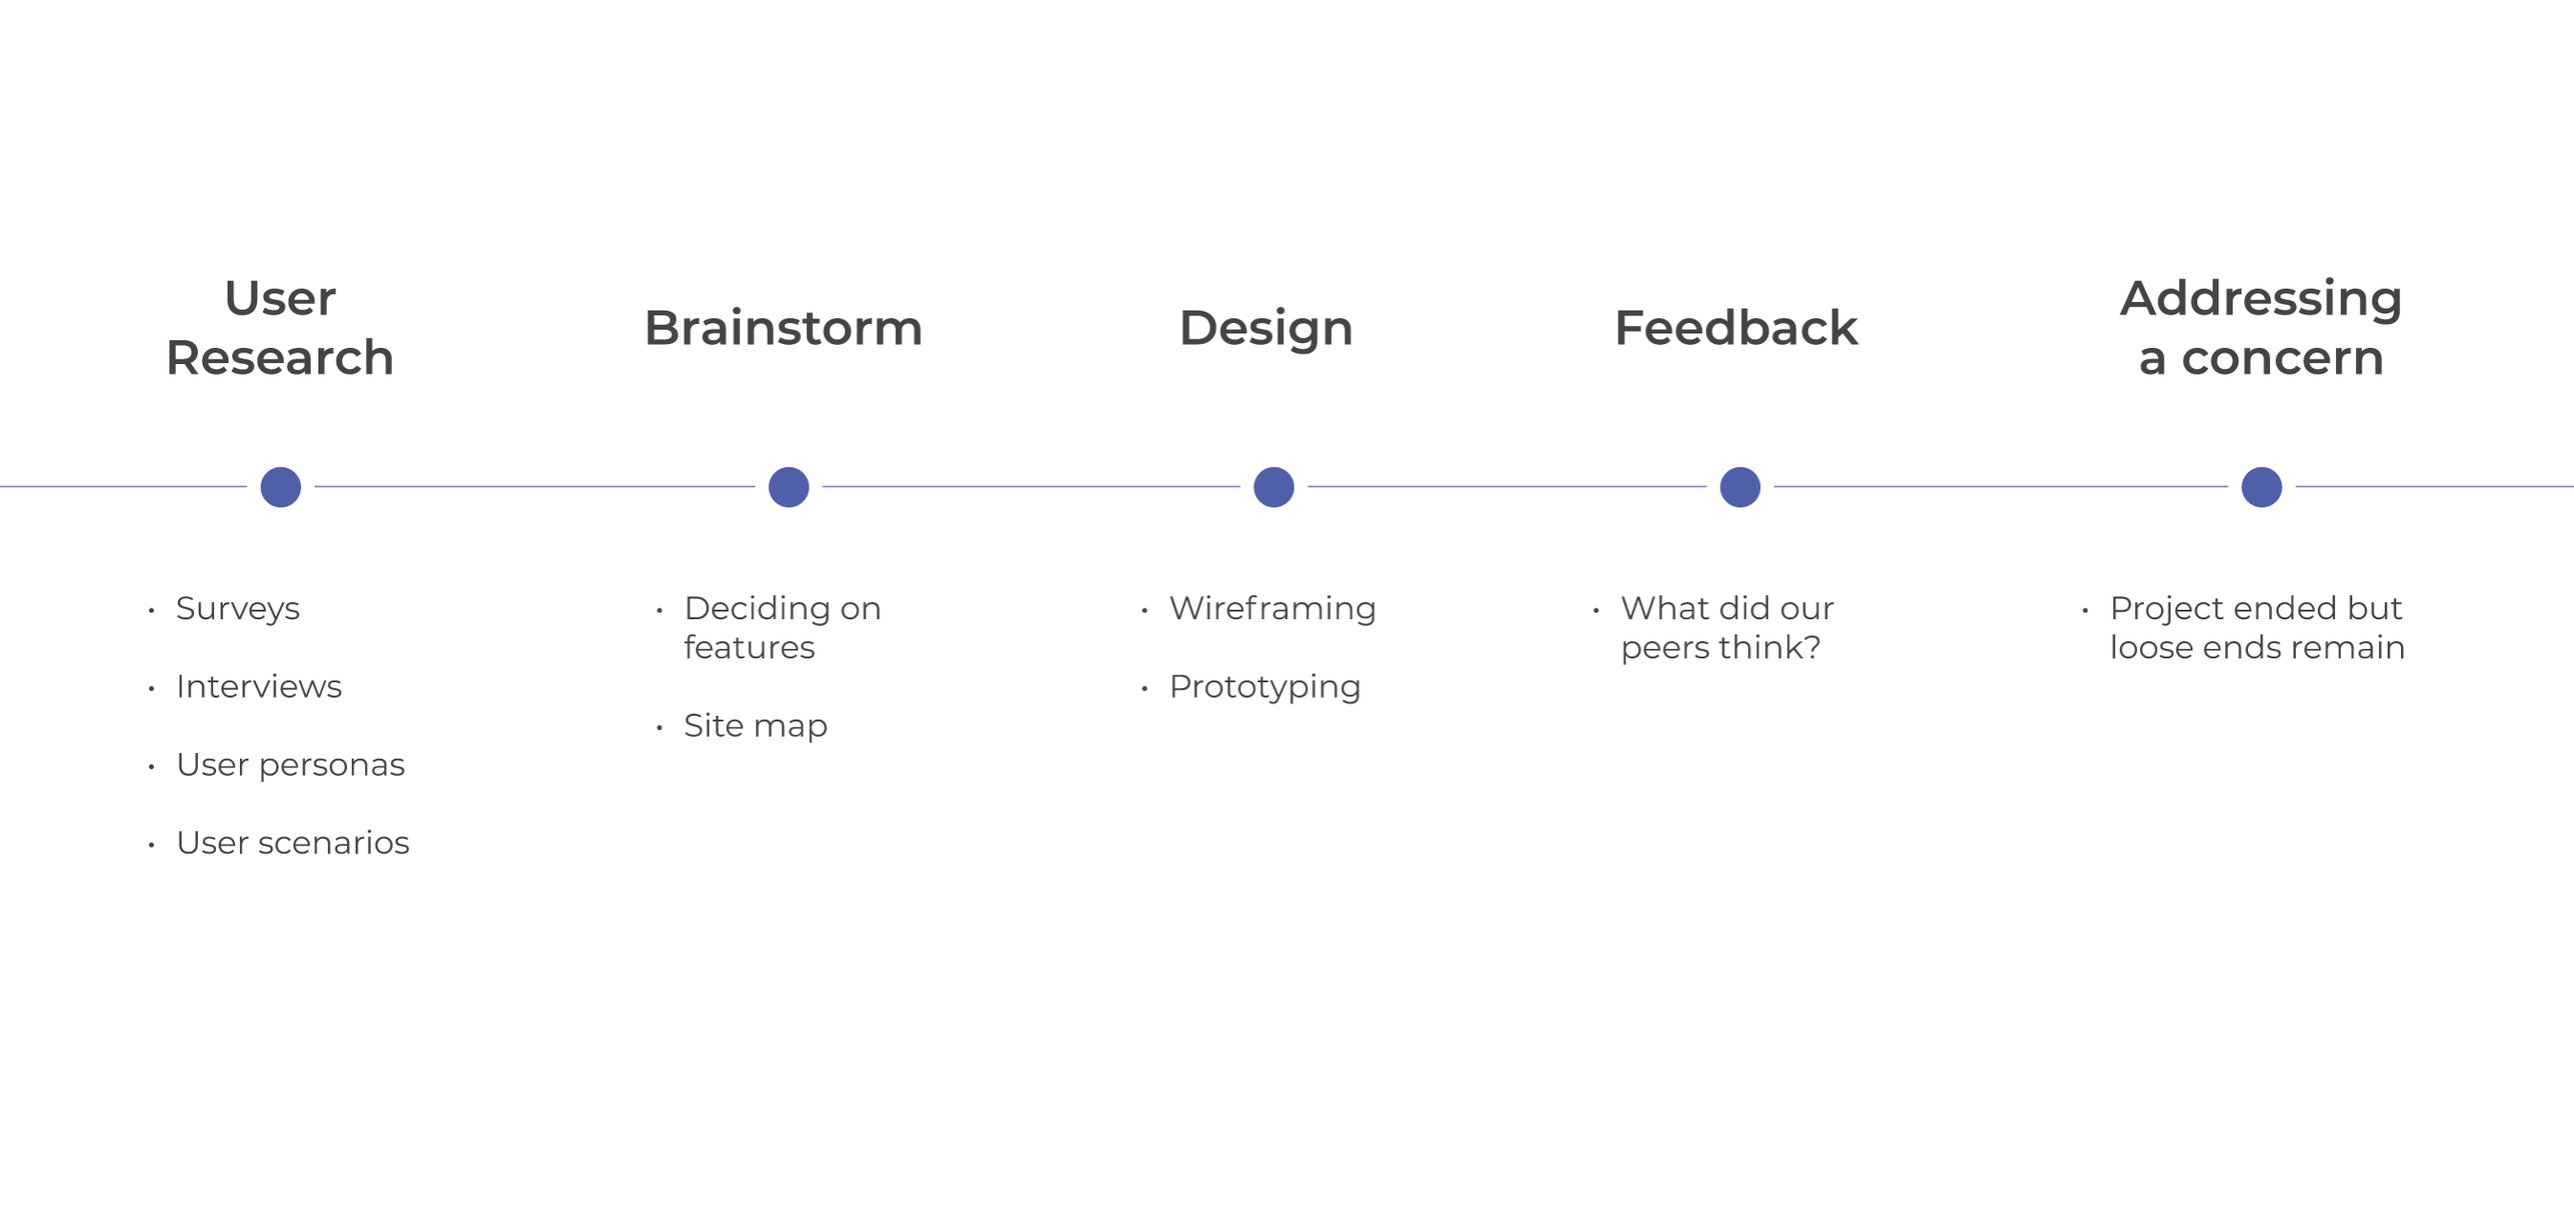
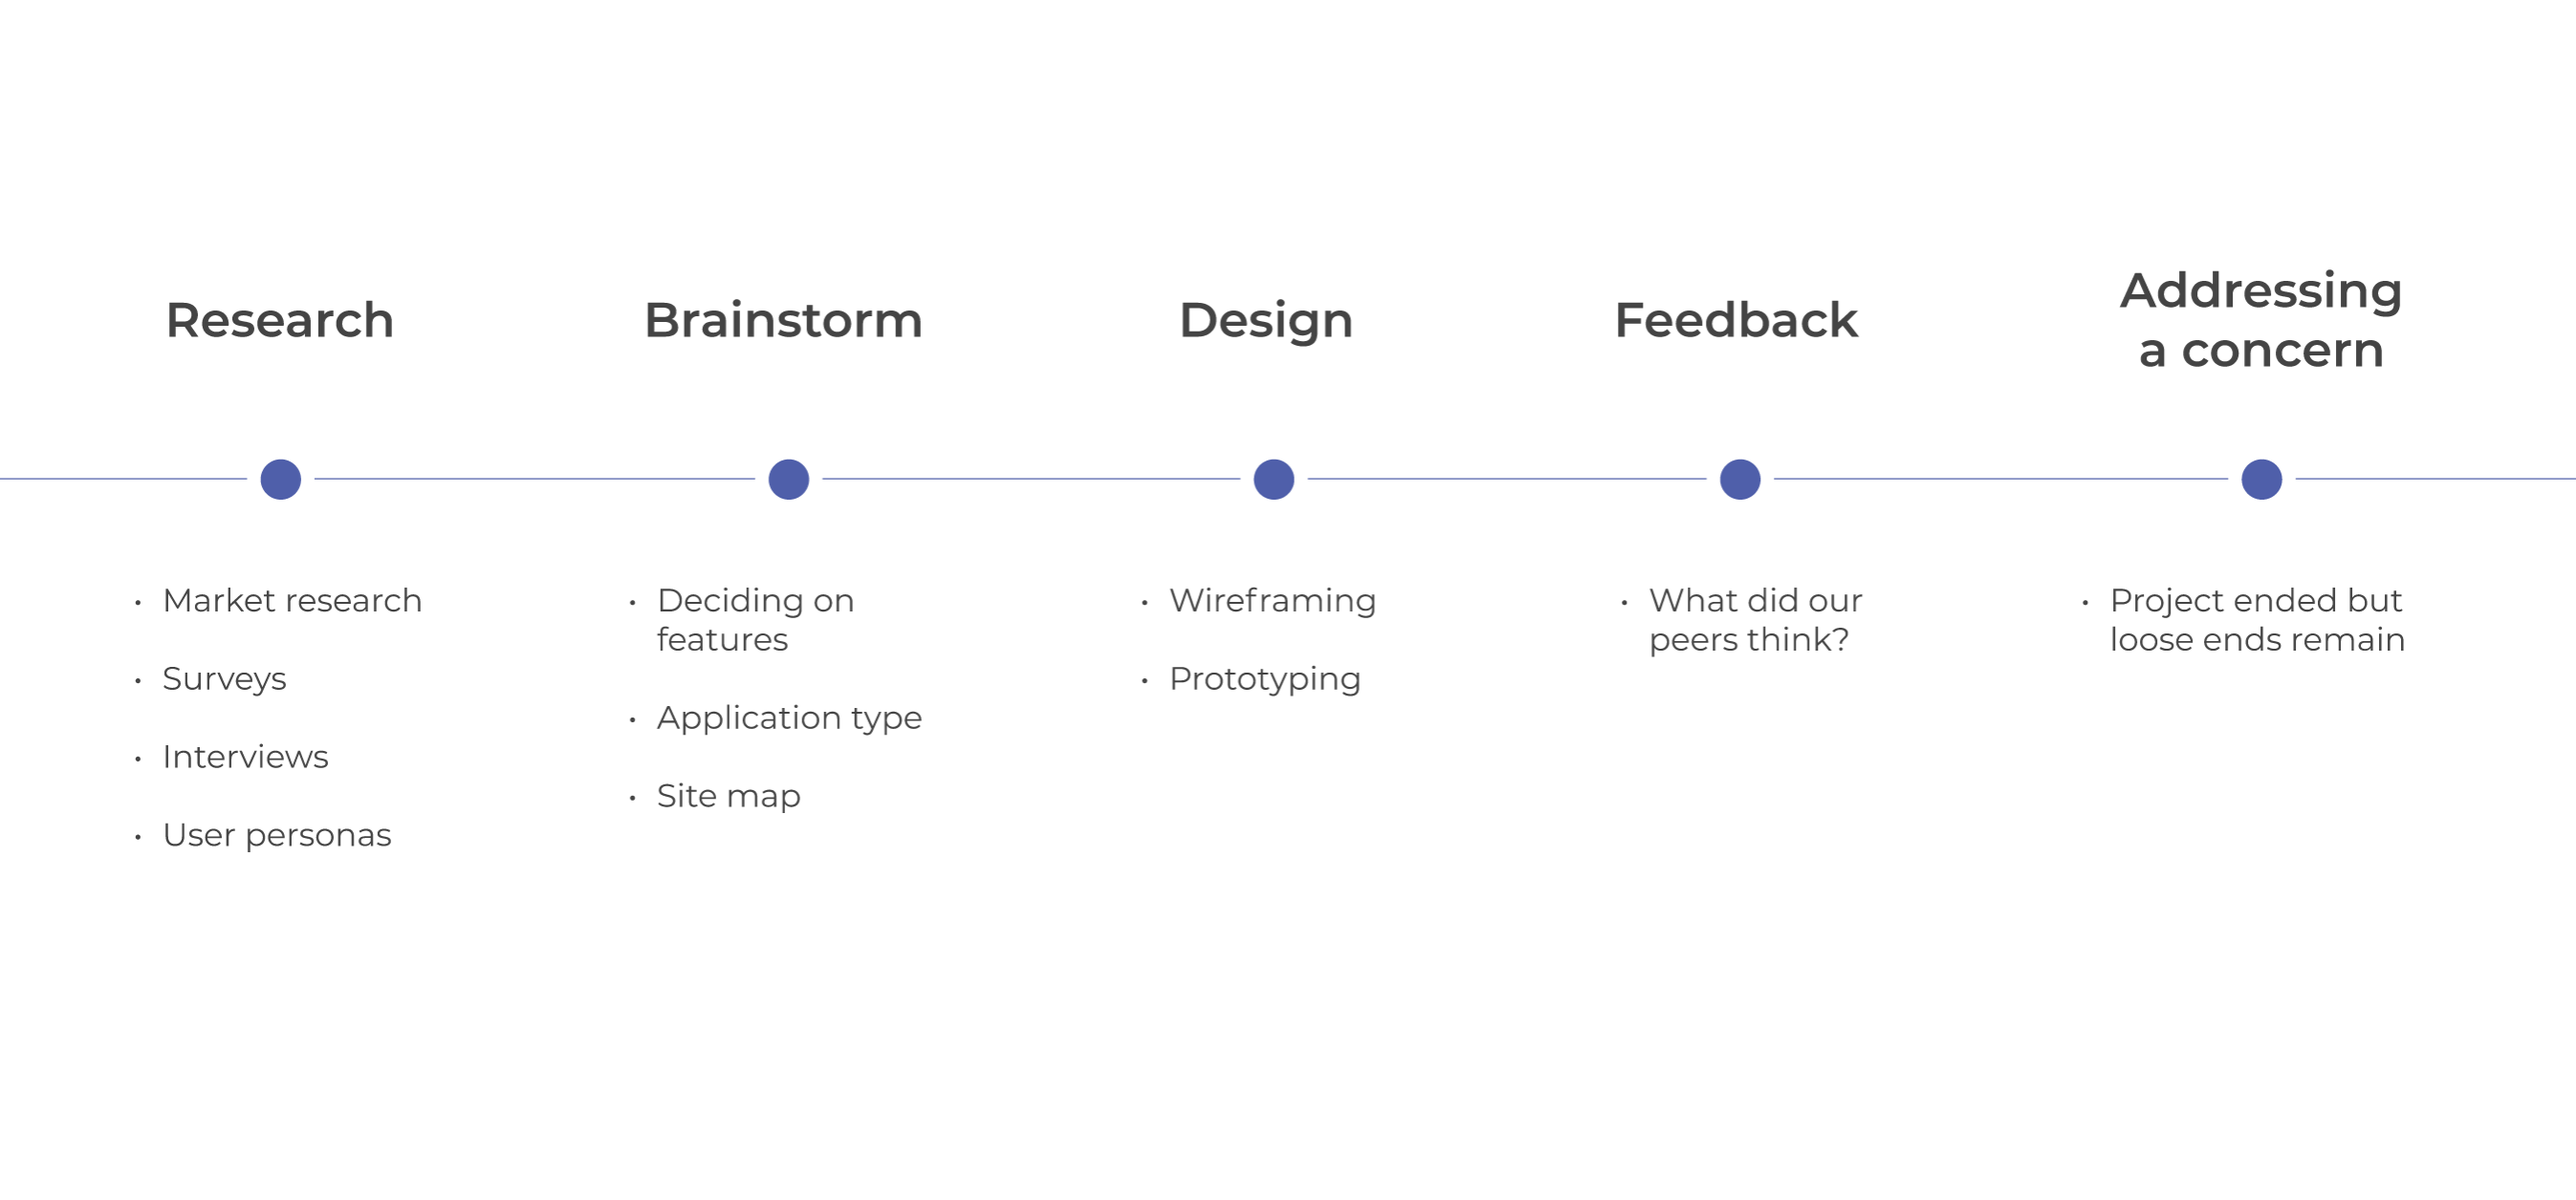
dynamo research

diff --git a/theCandyResearcher.html b/theCandyResearcher.html
@@ -99,16 +99,15 @@
 
             <!-- competitive research -->
             <div class="caseSection">
-                <h1 class="researcherHeaders">Competitive Analysis.</h1>
+                <h1 class="researcherHeaders">Competitors were Niche, had Loyal Followings, and used Newsletters.</h1>
                 <p>
                     Before starting user research, we needed to see what the current market looks like. In our case, products that provide candy news to 
-                    people who like candy. We identified and conducted SWOT analysis on three competitors: Candy Industry, Candy Gurus, and Confectionery News.
+                    people who like candy. We identified and conducted SWOT analysis on three competitors: <i>Candy Industry</i>, <i>Candy Gurus</i>, and <i>Confectionery News</i>.
                 </p>
                 <img src="img/candyresearcher/marketResearch.png" alt="competitors that we looked at" class="imageSize"/>
-                <h2>What we learned.</h2>
                 <p>
                     Candy news sites are extremely niche since they are catered to a specific audience (people who enjoy candy). 
-                    This is a major weakness because larger news agencies such as Food Insider can easily overshadow these sites. Larger agencies tend to target a much 
+                    This is a major weakness because larger news agencies such as <i>Food Insider</i> can easily overshadow these sites. Larger agencies tend to target a much 
                     broader audience with a variety of topics such as business, politics, and economy. Candy news sites we looked at thrive because they 
                     have a loyal following. These sites use newsletters to keep people updated and to remind people that the site is still alive. Sadly, some of the sites don't feature the newsletters prominently or without 
                     a strong call to action.
@@ -117,7 +116,7 @@
 
             <!-- user research -->
             <div class="caseSection">
-                <h1 class="researcherHeaders">User Research.</h1>
+                <h1 class="researcherHeaders">75 Respondents and 23 Interviewees.</h1>
                 <p>
                     Although we want to cater towards people who like candy,
                     we don't know much about them. For example, what are their
@@ -151,6 +150,7 @@
                     We created three personas from our user research.
                     Although we included age, family, and location in our personas, they were merely for constructing a character that would make sense and 
                     were in no way reflective of the interviewees (we never asked). Rather, our personas reflected the goals/desires of the people who we interviewed.
+                    We used these personas throughout the duration of the project to ensure that our features will meet the needs of the users.
                 </p>
                 <img src="img/candyresearcher/andyPersona.png" alt="user persona named andy" class="imageSize"/>
                 <img src="img/candyresearcher/dianaPersona.png" alt="user persona named diana" class="imageSize"/>
@@ -169,7 +169,7 @@
 
             <!-- deciding on the product's form -->
             <div class="caseSection">
-                <h1 class="researcherHeaders">Type of Application.</h1>
+                <h1 class="researcherHeaders">We will create a Website.</h1>
                 <p>
                     Now that we know what the product should do. It was time to settle on the type of product. We considered 
                     a mobile application, a website, and even a Discord server. In the end, we decided on creating a website 
@@ -212,13 +212,14 @@
                 <img src="img/candyresearcher/homeWire.png" alt="top five candies dropdowns on home page wireframe" class="imageSize"/>
                 <p>
                     People didn't like the accordions on the top five new releases list because they hide essential information which forced them to click and that made them annoyed. All they wanted was the name, rank, and image of the product.
+                    We understood why they felt this way because there was a lot of unnessesary information and this was on the homepage, the first page people would see when they "walk in". It makes sense that our list design is a bit overloaded.
                 </p>
 
                 <h2>Boring Article Layouts.</h2>
                 <img src="img/candyresearcher/newsWire.png" alt="article layout on news page wireframe" class="imageSize"/>
                 <p>
                     People also thought that the layout of the articles on the news page made the site seem boring in that nothing seems interesting to click on.
-                    They also expressed concern about the length of the article description. They didn't want to read a paragraph description before even seeing the article itself.
+                    They also expressed concern about the length of the article description. After they brought that up, we can empathize with them on why they didn't want to read a paragraph description before even seeing the article itself.
                 </p>
             </div>
 

diff --git a/dynamo.html b/dynamo.html
@@ -73,7 +73,7 @@
                     not surprising that students face mental health issues.
                 </p>
                 <p>
-                    This problem inspired me and my team to create a solution to lift some responsibilities off students' 
+                    This problem inspired me and my team to create a solution to lift some of the responsibilities off students' 
                     shoulders, so they can focus on enjoying the college experience.
                 </p>
                 <h2>
@@ -85,7 +85,8 @@
             <div class="caseSection">
                 <h1 class="dynamoHeaders">My Roles.</h1>
                 <p>
-                    Although I had a hand in every aspect of the project, I mainly focused on revising the wireframes to be more consistent and creating the whole prototype along with its animations. 
+                    Although I had a hand in every aspect of the project, I mainly focused on revising the wireframes to be more consistent, 
+                    creating the whole prototype along with its animations, and product branding.
                 </p>
             </div>
 
@@ -93,6 +94,41 @@
             <div class="caseSection">
                 <h1 class="dynamoHeaders">The Process.</h1>
                 <img src="img/dynamo/dynamoProcess.png" alt="my user experience process for this project" class="imageSize" />
+            </div>
+
+            <!-- Market Research -->
+            <div class="caseSection">
+                <h1 class="dynamoHeaders">Competitors had Simple UI, the ability to Send Reminders, and a arduous task input process.</h1>
+                <img src="img/dynamo/marketResearch.png" alt="the three existing solutions that we looked at" class="imageSize"/>
+                <p>
+                    To jump start our ideas, we looked at what other people have done to address student stress. We decided conduct research on 
+                    scheduling, trackers, and to-do list products because organization leads to a simpler and stress-free lifestyle. We found three products, 
+                    <i>myHomework</i>, <i>Habit Tracker</i>, and <i>remember the milk</i>. All products come with calendars, lists, progress monitoring, reminders, and an easy to understand 
+                    user interface. It is important to note that all products are extremely manual, meaning the user has to input everything. Thus, these products can 
+                    be time-consuming to use on a daily basis and even stressful due to the pressure that students are already in.
+                </p>
+            </div>
+
+            <!-- User Research -->
+            <div class="caseSection">
+                <h1 class="dynamoHeaders">40 College Freshmen Surveyed and 5 Interviewees.</h1>
+                <h2>Survey results of University of Washington freshmen.</h2>
+                <img src="img/dynamo/survey.png" alt="survey results graphic" class="imageSize"/>
+                <p>
+                    We conducted a survey on Freshmen at our university (since it was convienient) and we were interested in 
+                    the workload increase from the high school level to the university level. Participants were also asked about 
+                    whether they felt stress during their transition to college and how they handled that stress. These questions 
+                    matter to us because we needed confirmation that college life was much tougher than high school life. Now that we 
+                    have the statistics to back up our project objective, it was time to dive deeper to understand and empathize with 
+                    individual students.
+                </p>
+                <h2>Student Struggles & What would Help.</h2>
+                <img src="img/dynamo/interviews.png" alt="summarized interview results" class="imageSize"/>
+            </div>
+
+            <!-- User Personas -->
+            <div class="caseSection">
+                <h1 class="dynamoHeaders">User Personas</h1>
             </div>
 
             <!-- promote next project -->

diff --git a/zoom.html b/zoom.html
@@ -226,7 +226,7 @@
             <div class="promoteNext">
                 <hr />
                 <h1>Next Project:</h1>
-                <a href=""><img class="caseStudy" src="img/dynamo.png" alt="big clickable button to the case study: dynamo"/></a>
+                <a href="dynamo.html"><img class="caseStudy" src="img/dynamo.png" alt="big clickable button to the case study: dynamo"/></a>
             </div>
         </main>
 
